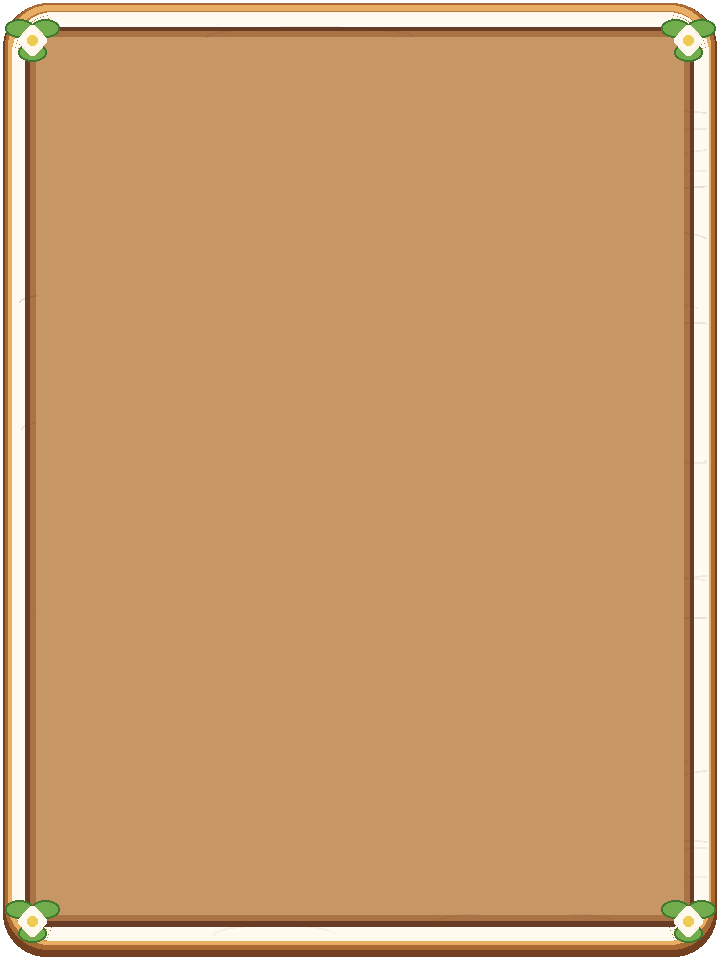
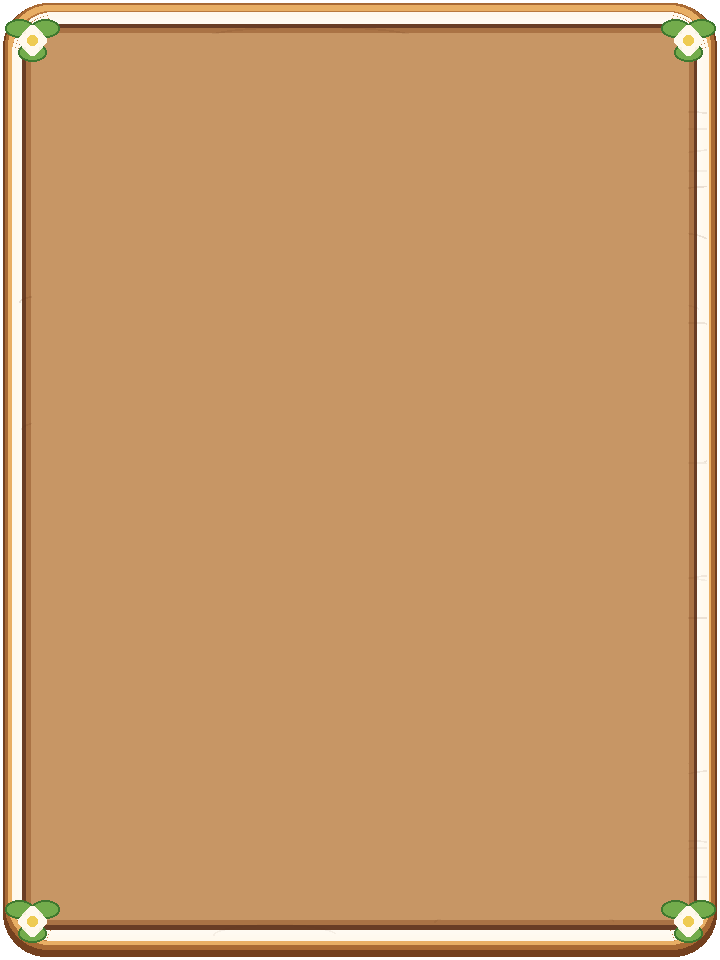
Add files via upload

diff --git a/board-premium.css b/board-premium.css
@@ -1,8 +1,8 @@
-/* Dalmpang V24: image-backed premium wood board skin.
+/* Dalmpang V26: image-backed premium wood board skin.
    Visual changes only: do not change board grid, lineLayer, touch coordinates, or JS. */
 #boardWrap, #boardWrap.chickBoard {
   background: #b77c48 url('assets/images/board_frame.png') center / 100% 100% no-repeat;
-  border: 0; border-radius: 23px; padding: 4.5%;
+  border: 0; border-radius: 23px; padding: 3.7%;
   box-shadow: 0 5px 0 rgba(100,54,27,.25), 0 9px 16px rgba(74,46,30,.14);
 }
 #boardWrap #grid, #boardWrap.chickBoard #grid { gap: .38%; }
@@ -34,6 +34,6 @@
   pointer-events:none; z-index:2;
 }
 @media(max-width:390px){
-  #boardWrap,#boardWrap.chickBoard{padding:4.2%;}
+  #boardWrap,#boardWrap.chickBoard{padding:3.45%;}
   #boardWrap #grid,#boardWrap.chickBoard #grid{gap:.30%;}
 }
